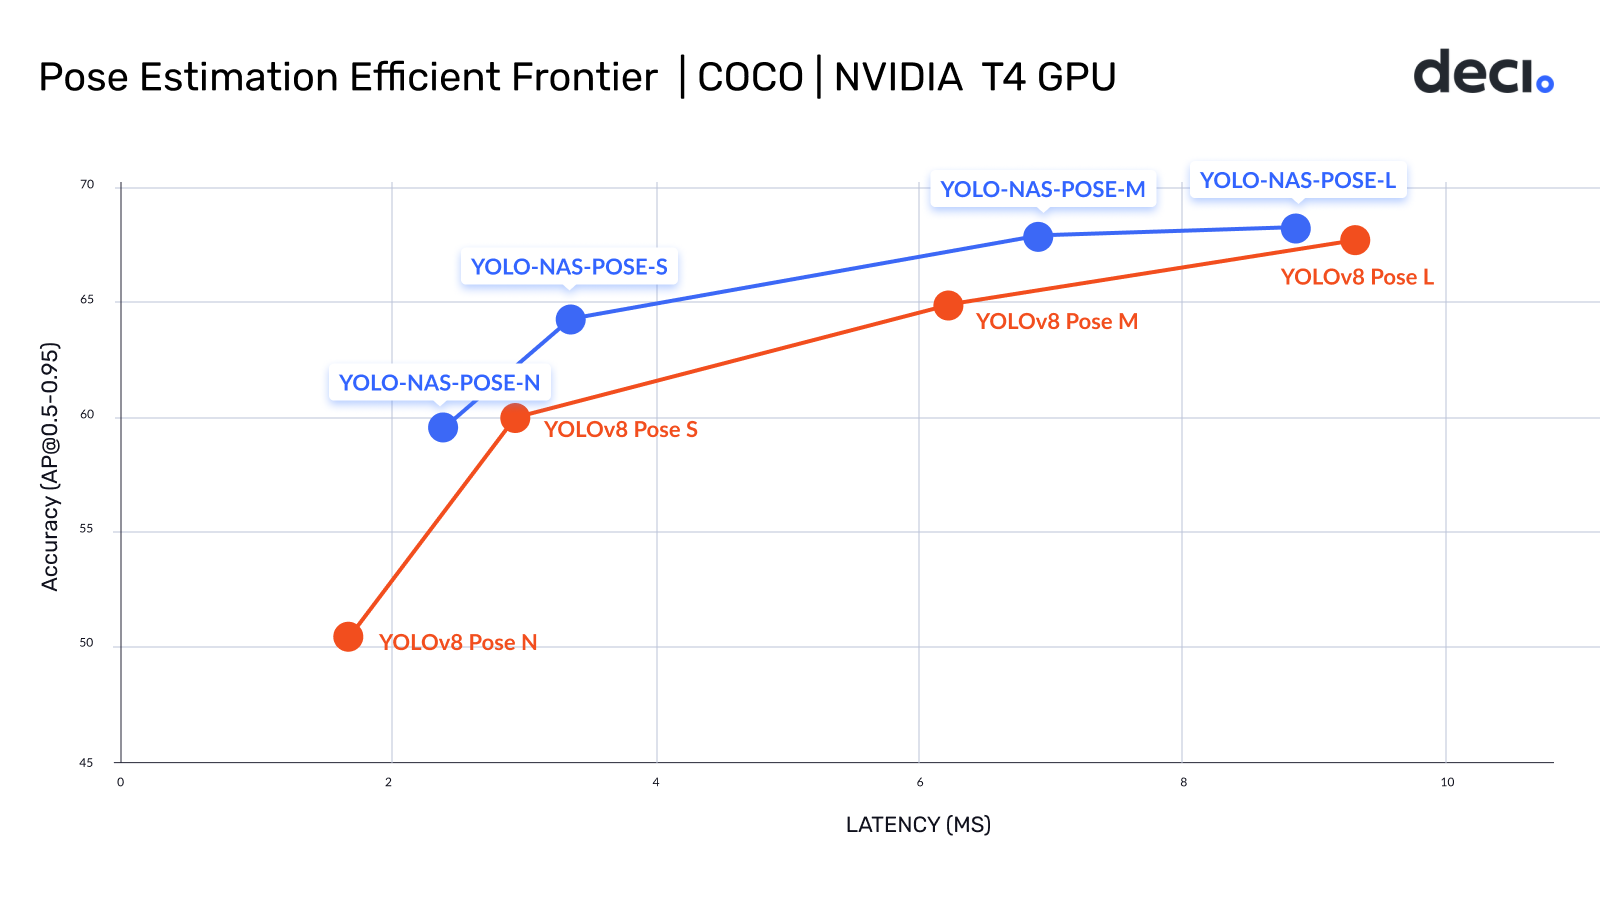
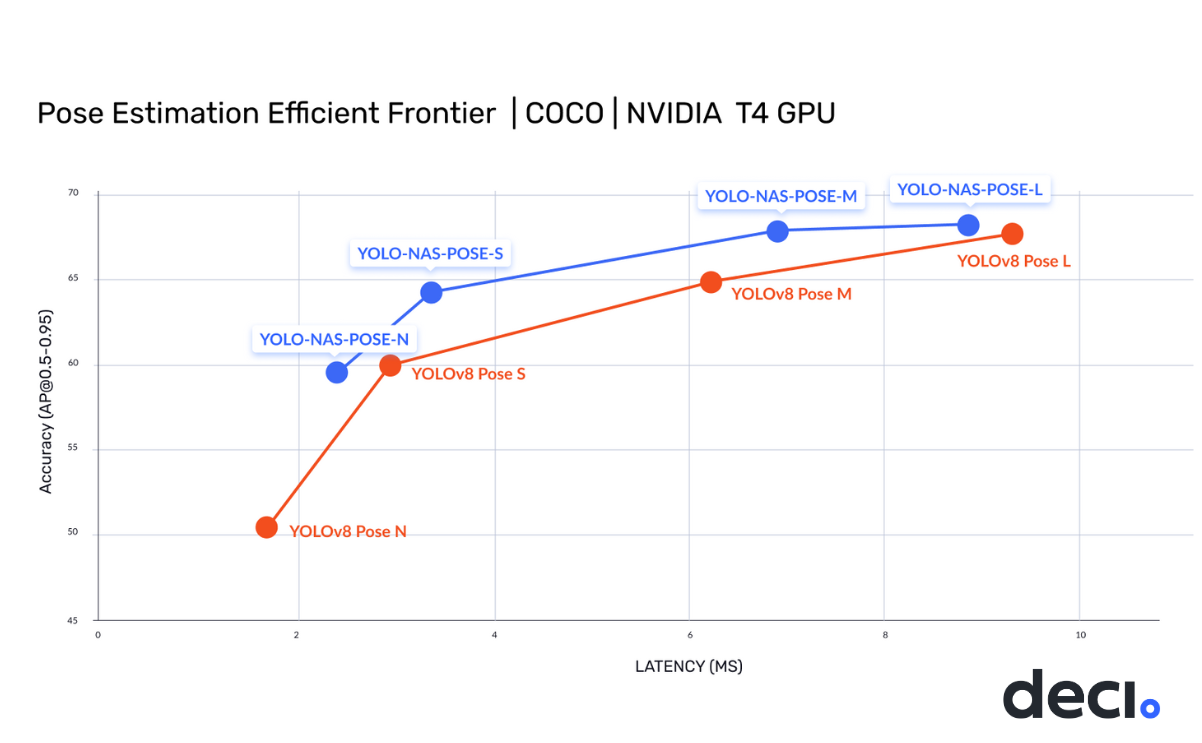
Update README (#1615)
* Update README

* Update README

* Update image

* Update image

diff --git a/README.md b/README.md
@@ -46,11 +46,15 @@ ________________________________________________________________________________
 
 ### Ready to deploy pre-trained SOTA models
 
-YOLO-NAS architecture is out! The new YOLO-NAS delivers state-of-the-art performance with the unparalleled accuracy-speed performance, outperforming other models such as YOLOv5, YOLOv6, YOLOv7 and YOLOv8.
-Check it out here: [YOLO-NAS](YOLONAS.md).
+YOLO-NAS and YOLO-NAS-POSE architectures are out! 
+The new YOLO-NAS delivers state-of-the-art performance with the unparalleled accuracy-speed performance, outperforming other models such as YOLOv5, YOLOv6, YOLOv7 and YOLOv8.
+A YOLO-NAS-POSE model for pose estimation is also available, delivering state-of-the-art accuracy/performance tradeoff.
+
+Check these out here: [YOLO-NAS](YOLONAS.md) & [YOLO-NAS-POSE](YOLONAS-POSE.md).
 
 <div align="center">
-<img src="https://github.com/Deci-AI/super-gradients/raw/master/documentation/source/images/yolo_nas_frontier.png" width="800px">
+<img src="https://github.com/Deci-AI/super-gradients/raw/master/documentation/source/images/yolo_nas_frontier.png" height="600px">
+<img src="https://github.com/Deci-AI/super-gradients/raw/master/documentation/source/images/yolo_nas_pose_frontier_t4.png" height="600px">
 </div>
 
 ```python
@@ -77,6 +81,11 @@ model = models.get(Models.YOLO_NAS_M, pretrained_weights="coco")
 <img src="https://github.com/Deci-AI/super-gradients/raw/master/documentation/assets/SG_img/Object Detection@2xDark.png" width="800px">
 </div>
 
+#### Pose Estimation
+<div align="center">
+<img src="https://github.com/Deci-AI/super-gradients/raw/master/documentation/source/images/yolo_nas_pose_frontier_t4.png" width="400px">
+<img src="https://github.com/Deci-AI/super-gradients/raw/master/documentation/source/images/yolo_nas_pose_frontier_xavier_nx.png" width="400px">
+</div>
 
 ### Easy to train SOTA Models
 
@@ -124,6 +133,13 @@ pip install super-gradients
 ## What's New
 
 __________________________________________________________________________________________________________
+Version 3.4.0 (November 6, 2023)
+
+* [YoloNAS-Pose](YOLONAS-POSE.md) model released - a new frontier in pose estimation
+* Added option to export a recipe to a single YAML file or to a standalone train.py file 
+* Other bugfixes & minor improvements. Full release notes available [here](https://github.com/Deci-AI/super-gradients/releases/tag/3.4.0)
+
+__________________________________________________________________________________________________________
 Version 3.1.3 (July 19, 2023)
 
 * [Pose Estimation Task Support](https://docs.deci.ai/super-gradients/documentation/source/PoseEstimation.html) - Check out fine-tuning [notebook example](https://colab.research.google.com/drive/1NMGzx8NdycIZqnRlZKJZrIOqyj0MFzJE#scrollTo=3UZJqTehg0On) 
@@ -147,16 +163,6 @@ Version 3.1.1 (May 3rd)
 * Post Training Quantization and Quantization Aware Training - [notebooks](http://bit.ly/3KrN6an)
 
 Check out SG full [release notes](https://github.com/Deci-AI/super-gradients/releases).
-
-## Coming soon
-__________________________________________________________________________________________________________
-- [ ] Pre-trained pose estimation model
-- [ ] Test Time Augmentations (TTA)
-- [ ] Recipe to train DEKR model(convertable to TRT) 
-- [ ] Key-points Rescoring for Pose estimation 
-- [ ] LR finder
-- [ ] Data analysis tools
-
 
 ## Table of Content
 __________________________________________________________________________________________________________

diff --git a/documentation/source/welcome.md b/documentation/source/welcome.md
@@ -32,29 +32,15 @@ Check out our [Quickstart tutorial](QuickstartBasicToolkit.md) to get learn the 
 
 You can also start from our tutorial on [Detection](ObjectDetection.md), [Segmentation](Segmentation.md) or [Pose Estimation](PoseEstimation.md).
  
-## What's New (v3.1.0)
+## What's New
+
 __________________________________________________________________________________________________________
+Version 3.4.0 (November 6, 2023)
 
-* [YOLO-NAS](https://bit.ly/41WeNPZ)
-* New [predict function](https://bit.ly/3oZfaea) (predict on any image, video, url, path, stream)
-* [RoboFlow100](https://bit.ly/40YOJ5z) datasets integration 
-* A new [Documentation Hub](https://docs.deci.ai/super-gradients/documentation/source/welcome.html)
-* Integration with [DagsHub for experiment monitoring](https://bit.ly/3ALFUkQ)
-* Support [Darknet/Yolo format detection dataset](https://bit.ly/41VX6Qu) (used by Yolo v5, v6, v7, v8) 
-* [Segformer](https://bit.ly/3oYu6Jp) model and recipe 
-* Post Training Quantization and Quantization Aware Training - [notebooks](http://bit.ly/3KrN6an)
+* [YoloNAS-Pose](YOLONAS-POSE.md) model released - a new frontier in pose estimation
+* Added option to export a recipe to a single YAML file or to a standalone train.py file 
+* Other bugfixes & minor improvements. Full release notes available [here](https://github.com/Deci-AI/super-gradients/releases/tag/3.4.0)
 
-Check out SG full [release notes](https://github.com/Deci-AI/super-gradients/releases).
-
-## Coming soon
-__________________________________________________________________________________________________________
-
-- [ ] Pre-trained pose estimation model
-- [ ] Test Time Augmentations (TTA)
-- [ ] Recipe to train DEKR model(convertable to TRT) 
-- [ ] Key-points Rescoring for Pose estimation 
-- [ ] LR finder
-- [ ] Data analysis tools
 ## Citation
 
 If you are using SuperGradients library in your research, please cite SuperGradients deep learning training library.
